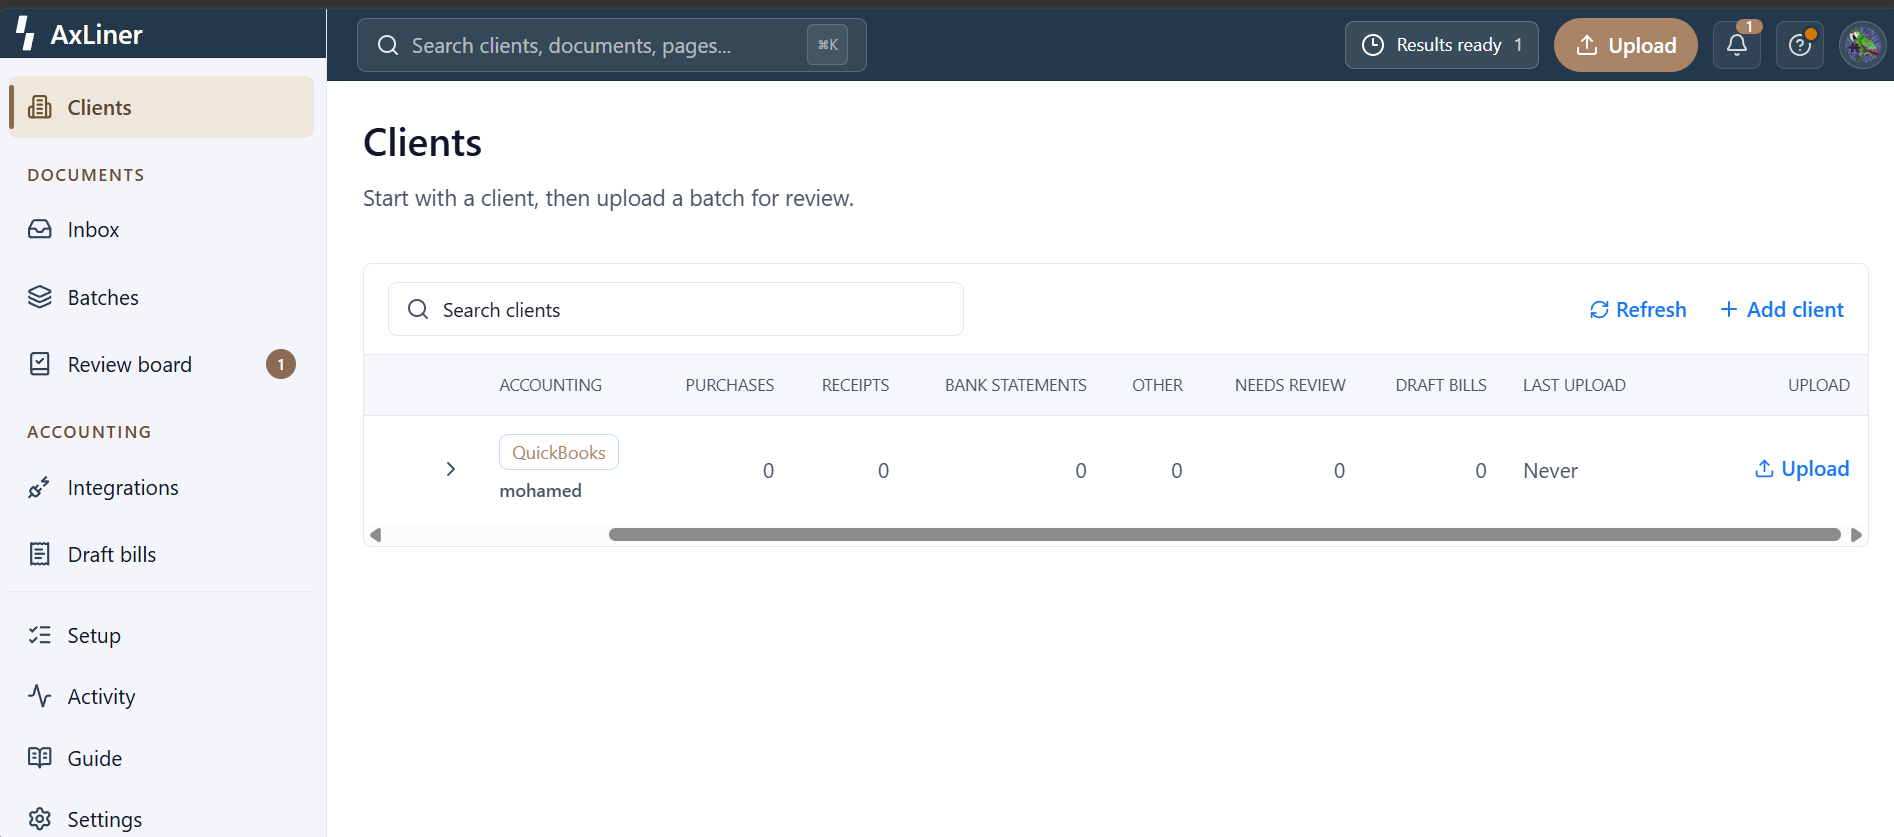
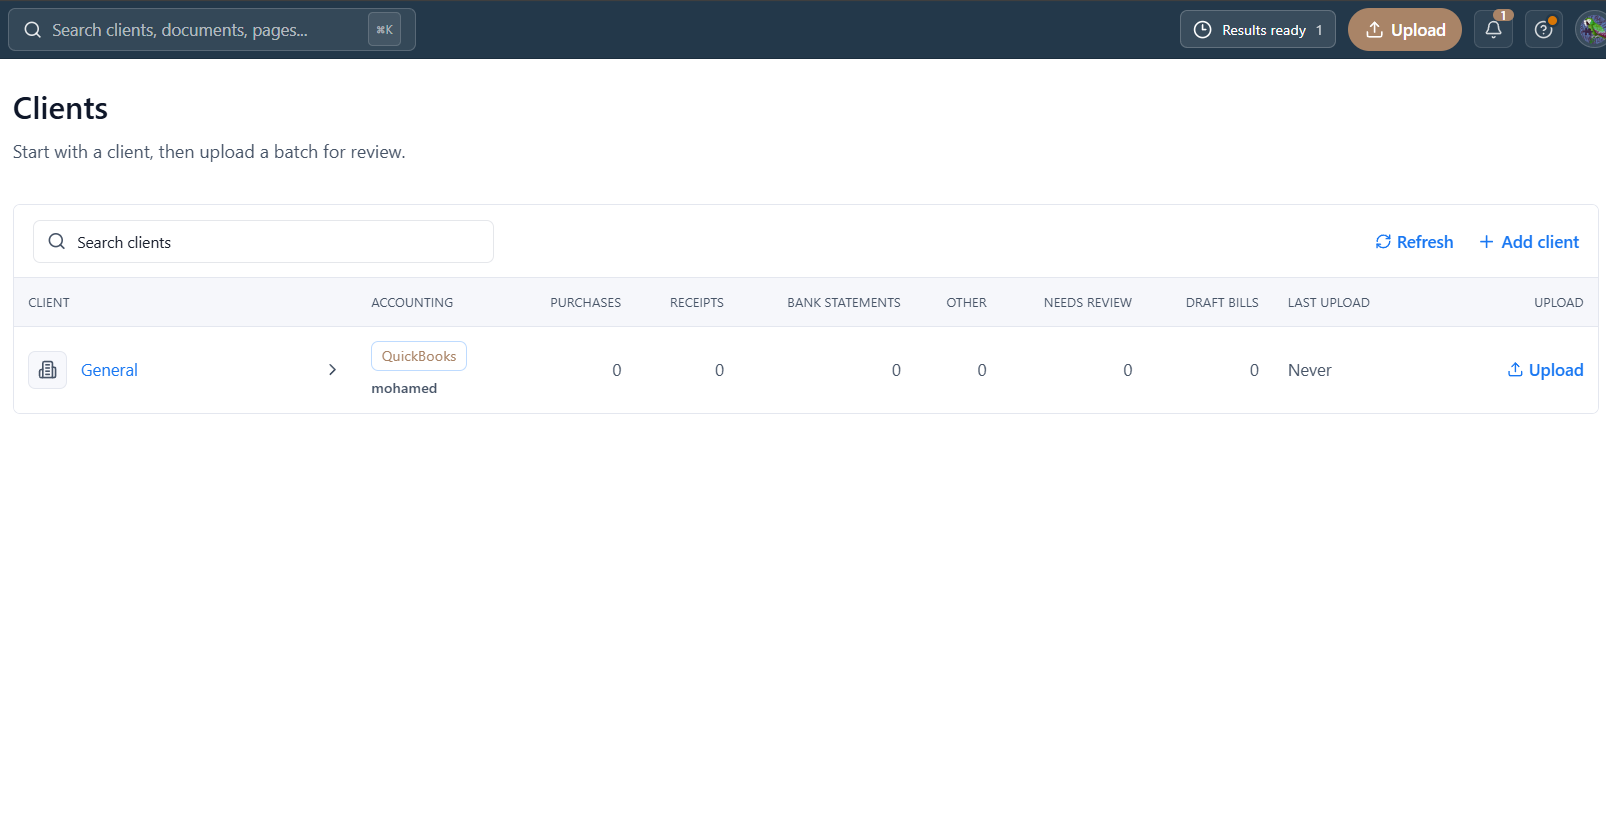
header

diff --git a/src/app/page.tsx b/src/app/page.tsx
@@ -245,7 +245,7 @@ function HeroVideo() {
   return (
     <div className="overflow-hidden rounded-[1.5rem] bg-[#F6F1EA] shadow-[0_24px_60px_-30px_rgba(0,0,0,0.35)] sm:rounded-[2rem]">
       <video
-        className="block w-full origin-center scale-[1.03]"
+        className="block aspect-video w-full origin-center scale-[1.03] object-cover"
         aria-label="AxLiner product walkthrough"
         autoPlay
         loop